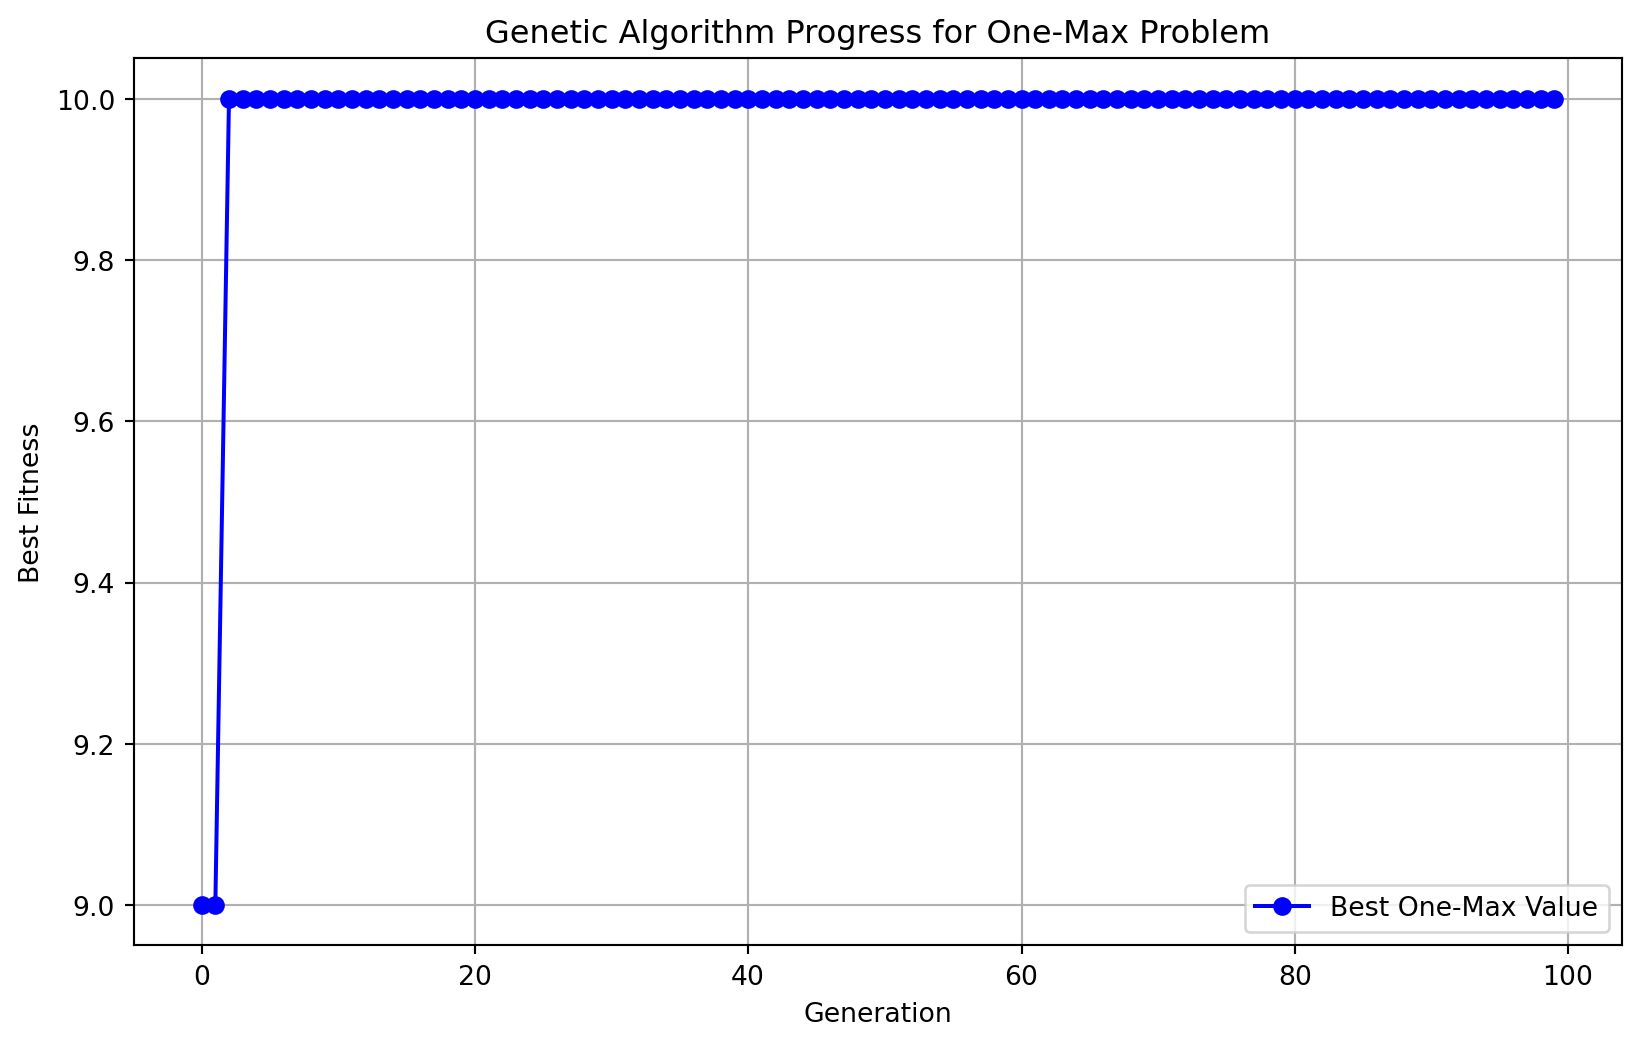
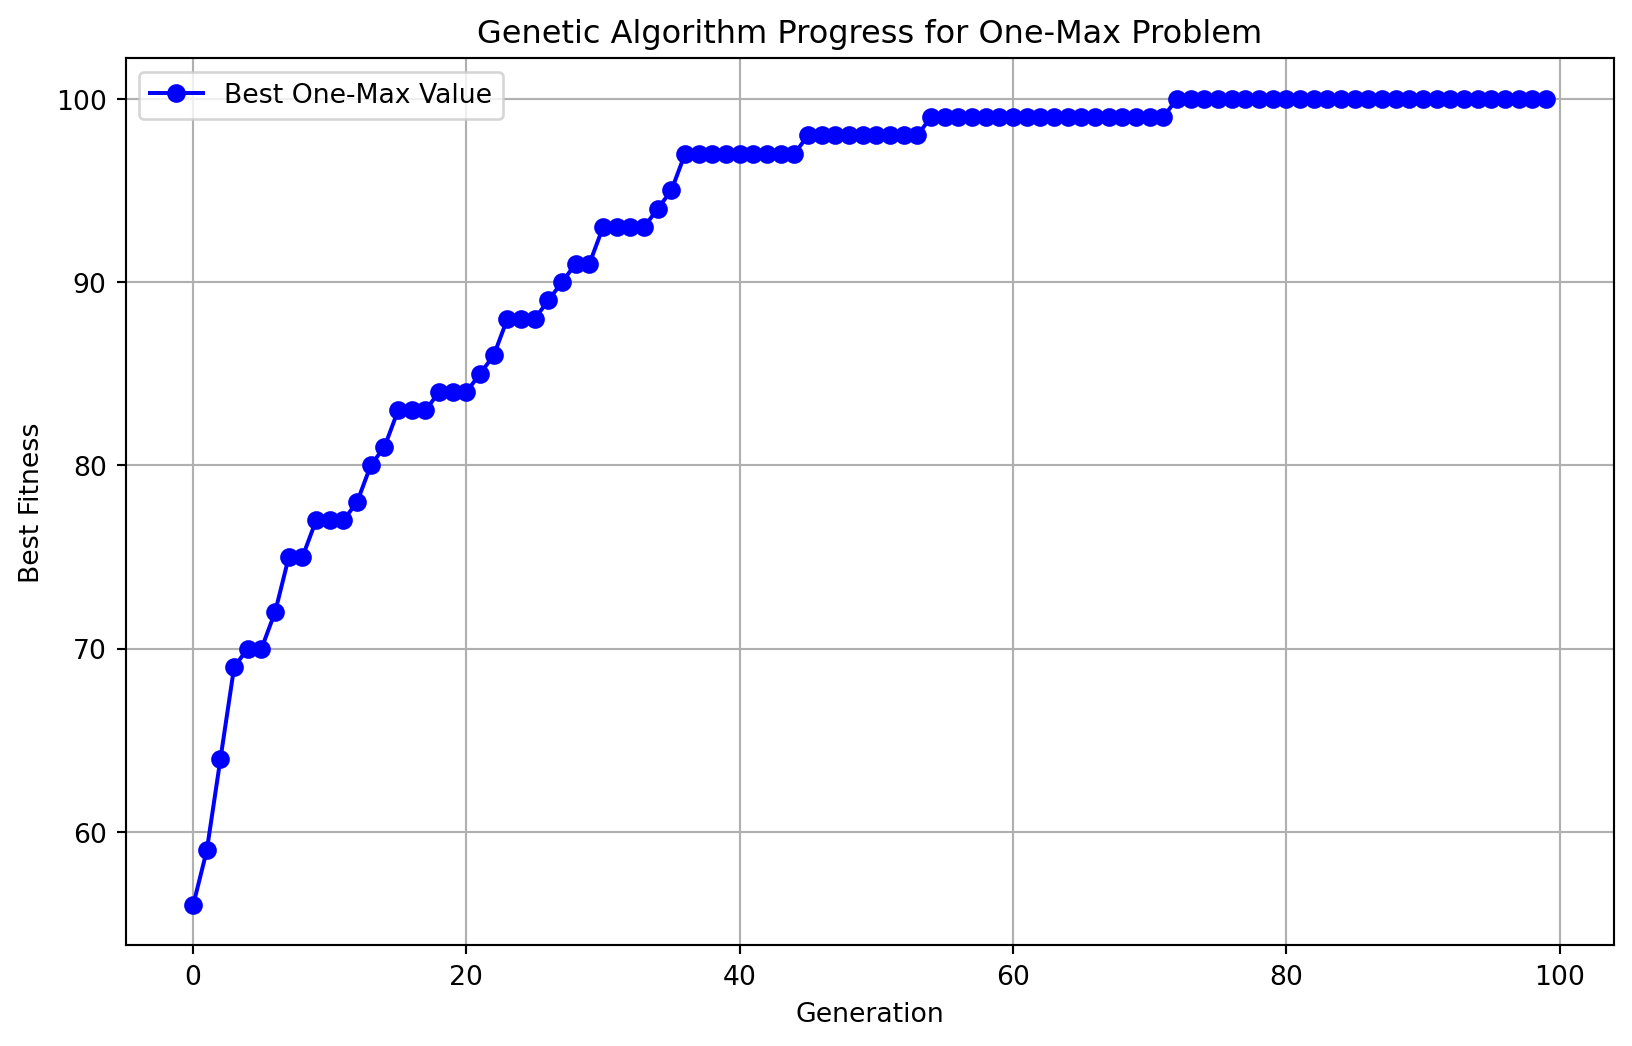
update GA

diff --git a/docs/ga.html b/docs/ga.html
@@ -671,14 +671,14 @@ window.Quarto = {
 </section>
 <section id="ga-example-one-max" class="level1">
 <h1>GA Example One Max</h1>
-<div id="07b5520b" class="cell" data-execution_count="1">
+<div id="c65bfb80" class="cell" data-execution_count="1">
 <div class="sourceCode cell-code" id="cb1"><pre class="sourceCode python code-with-copy"><code class="sourceCode python"><span id="cb1-1"><a href="#cb1-1" aria-hidden="true" tabindex="-1"></a><span class="im">import</span> numpy <span class="im">as</span> np</span>
 <span id="cb1-2"><a href="#cb1-2" aria-hidden="true" tabindex="-1"></a><span class="im">import</span> random</span>
 <span id="cb1-3"><a href="#cb1-3" aria-hidden="true" tabindex="-1"></a><span class="im">import</span> matplotlib.pyplot <span class="im">as</span> plt</span>
 <span id="cb1-4"><a href="#cb1-4" aria-hidden="true" tabindex="-1"></a><span class="im">import</span> time</span>
 <span id="cb1-5"><a href="#cb1-5" aria-hidden="true" tabindex="-1"></a></span>
 <span id="cb1-6"><a href="#cb1-6" aria-hidden="true" tabindex="-1"></a><span class="co"># Define the necessary global variables</span></span>
-<span id="cb1-7"><a href="#cb1-7" aria-hidden="true" tabindex="-1"></a>num_bits <span class="op">=</span> <span class="dv">10</span></span>
+<span id="cb1-7"><a href="#cb1-7" aria-hidden="true" tabindex="-1"></a>num_bits <span class="op">=</span> <span class="dv">100</span></span>
 <span id="cb1-8"><a href="#cb1-8" aria-hidden="true" tabindex="-1"></a>pop_size <span class="op">=</span> <span class="dv">50</span></span>
 <span id="cb1-9"><a href="#cb1-9" aria-hidden="true" tabindex="-1"></a>num_generations <span class="op">=</span> <span class="dv">100</span></span>
 <span id="cb1-10"><a href="#cb1-10" aria-hidden="true" tabindex="-1"></a>crossover_rate <span class="op">=</span> <span class="fl">0.7</span></span>
@@ -765,14 +765,16 @@ window.Quarto = {
 <span id="cb1-91"><a href="#cb1-91" aria-hidden="true" tabindex="-1"></a>plt.legend()</span>
 <span id="cb1-92"><a href="#cb1-92" aria-hidden="true" tabindex="-1"></a>plt.show()</span></code><button title="Copy to Clipboard" class="code-copy-button"><i class="bi"></i></button></pre></div>
 <div class="cell-output cell-output-stdout">
-<pre><code>Best solution: [1 1 1 1 1 1 1 1 1 1]
-Best fitness (one-max value): 10
-Execution time: 0.066705 seconds</code></pre>
+<pre><code>Best solution: [1 1 1 1 1 1 1 1 1 1 1 1 1 1 1 1 1 1 1 1 1 1 1 1 1 1 1 1 1 1 1 1 1 1 1 1 1
+ 1 1 1 1 1 1 1 1 1 1 1 1 1 1 1 1 1 1 1 1 1 1 1 1 1 1 1 1 1 1 1 1 1 1 1 1 1
+ 1 1 1 1 1 1 1 1 1 1 1 1 1 1 1 1 1 1 1 1 1 1 1 1 1 1]
+Best fitness (one-max value): 100
+Execution time: 0.107656 seconds</code></pre>
 </div>
 <div class="cell-output cell-output-display">
 <div>
 <figure class="figure">
-<p><img src="ga_files/figure-html/cell-2-output-2.png" width="821" height="523" class="figure-img"></p>
+<p><img src="ga_files/figure-html/cell-2-output-2.png" width="816" height="523" class="figure-img"></p>
 </figure>
 </div>
 </div>
@@ -792,7 +794,7 @@ Execution time: 0.066705 seconds</code></pre>
 </ul>
 <section id="startup-commands" class="level2">
 <h2 class="anchored" data-anchor-id="startup-commands">Startup Commands</h2>
-<div id="137ee347" class="cell" data-execution_count="2">
+<div id="08b40568" class="cell" data-execution_count="2">
 <div class="sourceCode cell-code" id="cb3"><pre class="sourceCode python code-with-copy"><code class="sourceCode python"><span id="cb3-1"><a href="#cb3-1" aria-hidden="true" tabindex="-1"></a><span class="co"># Genetic Algorithm Ackley Example (1D)</span></span>
 <span id="cb3-2"><a href="#cb3-2" aria-hidden="true" tabindex="-1"></a></span>
 <span id="cb3-3"><a href="#cb3-3" aria-hidden="true" tabindex="-1"></a><span class="im">import</span> numpy <span class="im">as</span> np</span>
@@ -825,7 +827,7 @@ Execution time: 0.066705 seconds</code></pre>
 <ul>
 <li>A population of solutions is initialized using the init_ga function, where each solution is a random number between -10 and 10, as per the problem domain.</li>
 </ul>
-<div id="195c9e2c" class="cell" data-execution_count="3">
+<div id="fae8b9e0" class="cell" data-execution_count="3">
 <div class="sourceCode cell-code" id="cb4"><pre class="sourceCode python code-with-copy"><code class="sourceCode python"><span id="cb4-1"><a href="#cb4-1" aria-hidden="true" tabindex="-1"></a><span class="co"># Initialization function (I) to set the starting point</span></span>
 <span id="cb4-2"><a href="#cb4-2" aria-hidden="true" tabindex="-1"></a><span class="kw">def</span> init_ga(pop_size):</span>
 <span id="cb4-3"><a href="#cb4-3" aria-hidden="true" tabindex="-1"></a>    <span class="cf">return</span> np.random.uniform(<span class="op">-</span><span class="dv">10</span>, <span class="dv">10</span>, (pop_size, <span class="dv">1</span>))</span></code><button title="Copy to Clipboard" class="code-copy-button"><i class="bi"></i></button></pre></div>
@@ -836,7 +838,7 @@ Execution time: 0.066705 seconds</code></pre>
 <ul>
 <li>The fitness of each solution in the population is evaluated using the Ackley function.The best solution found so far is updated by comparing the current population’s fitness values.</li>
 </ul>
-<div id="b169ef29" class="cell" data-execution_count="4">
+<div id="50d6bcaf" class="cell" data-execution_count="4">
 <div class="sourceCode cell-code" id="cb5"><pre class="sourceCode python code-with-copy"><code class="sourceCode python"><span id="cb5-1"><a href="#cb5-1" aria-hidden="true" tabindex="-1"></a><span class="co"># Evaluation function (E)</span></span>
 <span id="cb5-2"><a href="#cb5-2" aria-hidden="true" tabindex="-1"></a><span class="kw">def</span> evaluate(pop):</span>
 <span id="cb5-3"><a href="#cb5-3" aria-hidden="true" tabindex="-1"></a>    <span class="cf">return</span> np.array([ackley(ind) <span class="cf">for</span> ind <span class="kw">in</span> pop])</span></code><button title="Copy to Clipboard" class="code-copy-button"><i class="bi"></i></button></pre></div>
@@ -852,7 +854,7 @@ Execution time: 0.066705 seconds</code></pre>
 </ul></li>
 <li>This ensures that best_sol and best_obj_val always store the best solution and its fitness value found across all generations during the algorithm’s execution. The use of global allows the function to modify these variables outside its local scope.</li>
 </ul>
-<div id="21fd17b9" class="cell" data-execution_count="5">
+<div id="7aba3f71" class="cell" data-execution_count="5">
 <div class="sourceCode cell-code" id="cb6"><pre class="sourceCode python code-with-copy"><code class="sourceCode python"><span id="cb6-1"><a href="#cb6-1" aria-hidden="true" tabindex="-1"></a><span class="co"># Update best solution function</span></span>
 <span id="cb6-2"><a href="#cb6-2" aria-hidden="true" tabindex="-1"></a><span class="kw">def</span> update_best_sol(curr_pop, curr_obj_vals):</span>
 <span id="cb6-3"><a href="#cb6-3" aria-hidden="true" tabindex="-1"></a>    <span class="kw">global</span> best_sol, best_obj_val</span>
@@ -873,7 +875,7 @@ Execution time: 0.066705 seconds</code></pre>
 <li>The function returns the newly selected population as a NumPy array.</li>
 </ul></li>
 </ul>
-<div id="2c54dafc" class="cell" data-execution_count="6">
+<div id="44404491" class="cell" data-execution_count="6">
 <div class="sourceCode cell-code" id="cb7"><pre class="sourceCode python code-with-copy"><code class="sourceCode python"><span id="cb7-1"><a href="#cb7-1" aria-hidden="true" tabindex="-1"></a><span class="co"># Determination (D)</span></span>
 <span id="cb7-2"><a href="#cb7-2" aria-hidden="true" tabindex="-1"></a><span class="co"># Selection function using tournament selection</span></span>
 <span id="cb7-3"><a href="#cb7-3" aria-hidden="true" tabindex="-1"></a><span class="kw">def</span> select(curr_pop, curr_obj_vals, num_players):</span>
@@ -892,17 +894,17 @@ Execution time: 0.066705 seconds</code></pre>
 <li><p>Crossover: Pairs of solutions from the selected population are combined to create new offspring by mixing parts of the parent solutions.</p></li>
 <li><p>A new population (new_pop) is initialized as a copy of the current population (pop). The loop iterates over the population in pairs. For each pair, a random number is generated using np.random.rand(). If this number is less than the crossover_rate, crossover occurs:</p>
 <ul>
-<li>A crossover point is chosen randomly (here, using np.random.randint(1)), which specifies where the two parent solutions will exchange segments. The segments of the two parent solutions from the crossover point onward are swapped, creating two new offspring solutions.</li>
-<li>If the random number is greater than the crossover_rate, no crossover occurs, and the parent solutions remain unchanged. The function returns the new_pop containing the modified population after applying the crossover operation.</li>
+<li><p>A crossover point is chosen randomly (here, using np.random.randint(0, pop.shape[1]), which specifies where the two parent solutions will exchange segments. The segments of the two parent solutions from the crossover point onward are swapped, creating two new offspring solutions.</p></li>
+<li><p>If the random number is greater than the crossover_rate, no crossover occurs, and the parent solutions remain unchanged. The function returns the new_pop containing the modified population after applying the crossover operation.</p></li>
 </ul>
-<div id="854e95fb" class="cell" data-execution_count="7">
+<div id="4fdb8cb7" class="cell" data-execution_count="7">
 <div class="sourceCode cell-code" id="cb8"><pre class="sourceCode python code-with-copy"><code class="sourceCode python"><span id="cb8-1"><a href="#cb8-1" aria-hidden="true" tabindex="-1"></a><span class="co"># Transition function (T): Crossover and Mutation</span></span>
 <span id="cb8-2"><a href="#cb8-2" aria-hidden="true" tabindex="-1"></a><span class="co"># Crossover function (T)</span></span>
 <span id="cb8-3"><a href="#cb8-3" aria-hidden="true" tabindex="-1"></a><span class="kw">def</span> crossover(pop, crossover_rate):</span>
 <span id="cb8-4"><a href="#cb8-4" aria-hidden="true" tabindex="-1"></a>    new_pop <span class="op">=</span> pop.copy()</span>
 <span id="cb8-5"><a href="#cb8-5" aria-hidden="true" tabindex="-1"></a>    <span class="cf">for</span> i <span class="kw">in</span> <span class="bu">range</span>(<span class="dv">0</span>, <span class="bu">len</span>(pop) <span class="op">-</span> <span class="dv">1</span>, <span class="dv">2</span>):</span>
 <span id="cb8-6"><a href="#cb8-6" aria-hidden="true" tabindex="-1"></a>        <span class="cf">if</span> np.random.rand() <span class="op">&lt;</span> crossover_rate:</span>
-<span id="cb8-7"><a href="#cb8-7" aria-hidden="true" tabindex="-1"></a>            crossover_point <span class="op">=</span> np.random.randint(<span class="dv">1</span>)</span>
+<span id="cb8-7"><a href="#cb8-7" aria-hidden="true" tabindex="-1"></a>            crossover_point <span class="op">=</span> np.random.randint(<span class="dv">0</span>, pop.shape[<span class="dv">1</span>])</span>
 <span id="cb8-8"><a href="#cb8-8" aria-hidden="true" tabindex="-1"></a>            new_pop[i, crossover_point:], new_pop[i <span class="op">+</span> <span class="dv">1</span>, crossover_point:] <span class="op">=</span> (</span>
 <span id="cb8-9"><a href="#cb8-9" aria-hidden="true" tabindex="-1"></a>                pop[i <span class="op">+</span> <span class="dv">1</span>, crossover_point:], </span>
 <span id="cb8-10"><a href="#cb8-10" aria-hidden="true" tabindex="-1"></a>                pop[i, crossover_point:]</span>
@@ -915,9 +917,9 @@ Execution time: 0.066705 seconds</code></pre>
 <h2 class="anchored" data-anchor-id="transition-t-mutation-function">Transition (T): Mutation Function</h2>
 <ul>
 <li>Mutation: Random mutations are introduced in the offspring solutions to maintain diversity and avoid premature convergence.</li>
-<li>It introduces random changes to a population of solutions in a genetic algorithm. It iterates over each individual in the population (pop) and, with a probability specified by the mutation_rate, replaces the current individual with a new value randomly drawn from a uniform distribution between -10 and 10. This random alteration helps maintain diversity in the population, enabling the genetic algorithm to explore new areas of the solution space and avoid premature convergence. The modified population is returned at the end of the function.</li>
+<li>It introduces random changes to a population of solutions in a genetic algorithm. It iterates over each individual in the population (pop) and, with a probability specified by the mutation_rate, replaces the current individual with a new value randomly drawn from a uniform distribution between -10 and 10. This random alteration helps maintain diversity in the population, enabling the genetic algorithm to explore new areas of the solution space and avoid premature convergence. The modified population is returned at the end of the function. This introduces large jumps (not a small step size) since any value can be replaced.</li>
 </ul>
-<div id="57a9458f" class="cell" data-execution_count="8">
+<div id="d89daeb8" class="cell" data-execution_count="8">
 <div class="sourceCode cell-code" id="cb9"><pre class="sourceCode python code-with-copy"><code class="sourceCode python"><span id="cb9-1"><a href="#cb9-1" aria-hidden="true" tabindex="-1"></a><span class="co"># Mutation function (M)</span></span>
 <span id="cb9-2"><a href="#cb9-2" aria-hidden="true" tabindex="-1"></a><span class="kw">def</span> mutation(pop, mutation_rate):</span>
 <span id="cb9-3"><a href="#cb9-3" aria-hidden="true" tabindex="-1"></a>    <span class="cf">for</span> i <span class="kw">in</span> <span class="bu">range</span>(<span class="bu">len</span>(pop)):</span>
@@ -932,7 +934,7 @@ Execution time: 0.066705 seconds</code></pre>
 <li>The algorithm iterates through a fixed number of generations (iterations). Each generation represents an iteration of evolving the population to improve the solutions.</li>
 <li>The new population (after crossover and mutation) replaces the old one for the next generation.</li>
 </ul>
-<div id="574373b5" class="cell" data-execution_count="9">
+<div id="378dfdba" class="cell" data-execution_count="9">
 <div class="sourceCode cell-code" id="cb10"><pre class="sourceCode python code-with-copy"><code class="sourceCode python"><span id="cb10-1"><a href="#cb10-1" aria-hidden="true" tabindex="-1"></a><span class="co"># Genetic Algorithm function (D)</span></span>
 <span id="cb10-2"><a href="#cb10-2" aria-hidden="true" tabindex="-1"></a><span class="kw">def</span> genetic_algorithm():</span>
 <span id="cb10-3"><a href="#cb10-3" aria-hidden="true" tabindex="-1"></a>    <span class="kw">global</span> best_sol, best_obj_val</span>
@@ -952,7 +954,7 @@ Execution time: 0.066705 seconds</code></pre>
 </section>
 <section id="main-execution" class="level2">
 <h2 class="anchored" data-anchor-id="main-execution">Main Execution</h2>
-<div id="e21853a9" class="cell" data-execution_count="10">
+<div id="69a9ed22" class="cell" data-execution_count="10">
 <div class="sourceCode cell-code" id="cb11"><pre class="sourceCode python code-with-copy"><code class="sourceCode python"><span id="cb11-1"><a href="#cb11-1" aria-hidden="true" tabindex="-1"></a><span class="co"># Main execution</span></span>
 <span id="cb11-2"><a href="#cb11-2" aria-hidden="true" tabindex="-1"></a>start_time <span class="op">=</span> time.time()</span>
 <span id="cb11-3"><a href="#cb11-3" aria-hidden="true" tabindex="-1"></a>best_solution, best_value <span class="op">=</span> genetic_algorithm()</span>
@@ -962,7 +964,7 @@ Execution time: 0.066705 seconds</code></pre>
 </section>
 <section id="output-o" class="level2">
 <h2 class="anchored" data-anchor-id="output-o">Output (O)</h2>
-<div id="56dac46b" class="cell" data-execution_count="11">
+<div id="9ddaff30" class="cell" data-execution_count="11">
 <div class="sourceCode cell-code" id="cb12"><pre class="sourceCode python code-with-copy"><code class="sourceCode python"><span id="cb12-1"><a href="#cb12-1" aria-hidden="true" tabindex="-1"></a><span class="co"># Output (O)</span></span>
 <span id="cb12-2"><a href="#cb12-2" aria-hidden="true" tabindex="-1"></a><span class="bu">print</span>(<span class="ss">f"Optimal solution: </span><span class="sc">{</span>best_solution<span class="sc">}</span><span class="ss">"</span>)</span>
 <span id="cb12-3"><a href="#cb12-3" aria-hidden="true" tabindex="-1"></a><span class="bu">print</span>(<span class="ss">f"Optimal value: </span><span class="sc">{</span>best_value<span class="sc">}</span><span class="ss">"</span>)</span>
@@ -982,9 +984,9 @@ Execution time: 0.066705 seconds</code></pre>
 <span id="cb12-17"><a href="#cb12-17" aria-hidden="true" tabindex="-1"></a>plt.grid(<span class="va">True</span>)</span>
 <span id="cb12-18"><a href="#cb12-18" aria-hidden="true" tabindex="-1"></a>plt.show()</span></code><button title="Copy to Clipboard" class="code-copy-button"><i class="bi"></i></button></pre></div>
 <div class="cell-output cell-output-stdout">
-<pre><code>Optimal solution: [0.00493395]
-Optimal value: 0.021031863831375563
-Execution time for Genetic Algorithm: 0.108576 seconds</code></pre>
+<pre><code>Optimal solution: [-0.03717844]
+Optimal value: 0.22099823425155707
+Execution time for Genetic Algorithm: 0.107969 seconds</code></pre>
 </div>
 <div class="cell-output cell-output-display">
 <div>
